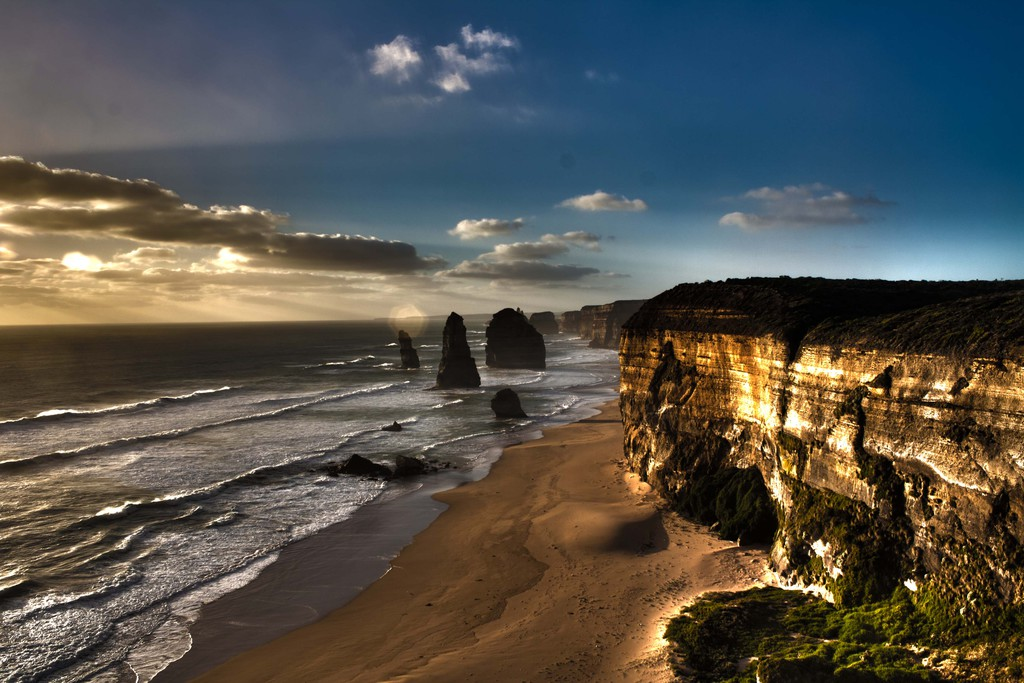
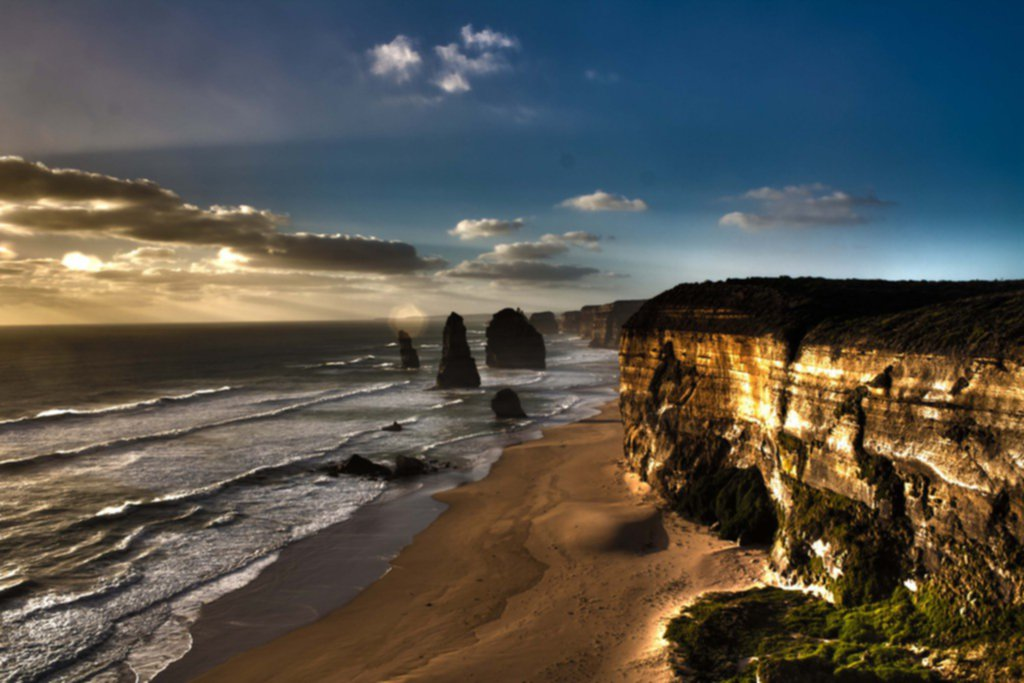
removed overlay on slider

diff --git a/app/assets/stylesheets/application.css b/app/assets/stylesheets/application.css
@@ -82,3 +82,18 @@
 .featurebox p{
   color: #666;  
 }
+
+
+.carousel .item {
+    width: 100%; /*slider width*/
+    max-height: 600px; /*slider height*/
+}
+.carousel .item img {
+    width: 100%; /*img width*/
+}
+/*add some makeup*/
+.carousel .carousel-control {
+    background: none;
+    border: none;
+    top: 50%;
+}

diff --git a/public/unify/assets/css/plugins.css b/public/unify/assets/css/plugins.css
@@ -118,7 +118,7 @@
   height: 100%;
   content: ' ';
   position: absolute;
-  background: rgba(0,0,0,0.3);
+  /*background: rgba(0,0,0,0.3);*/
 } 
 
 .revolution-ch1 {
